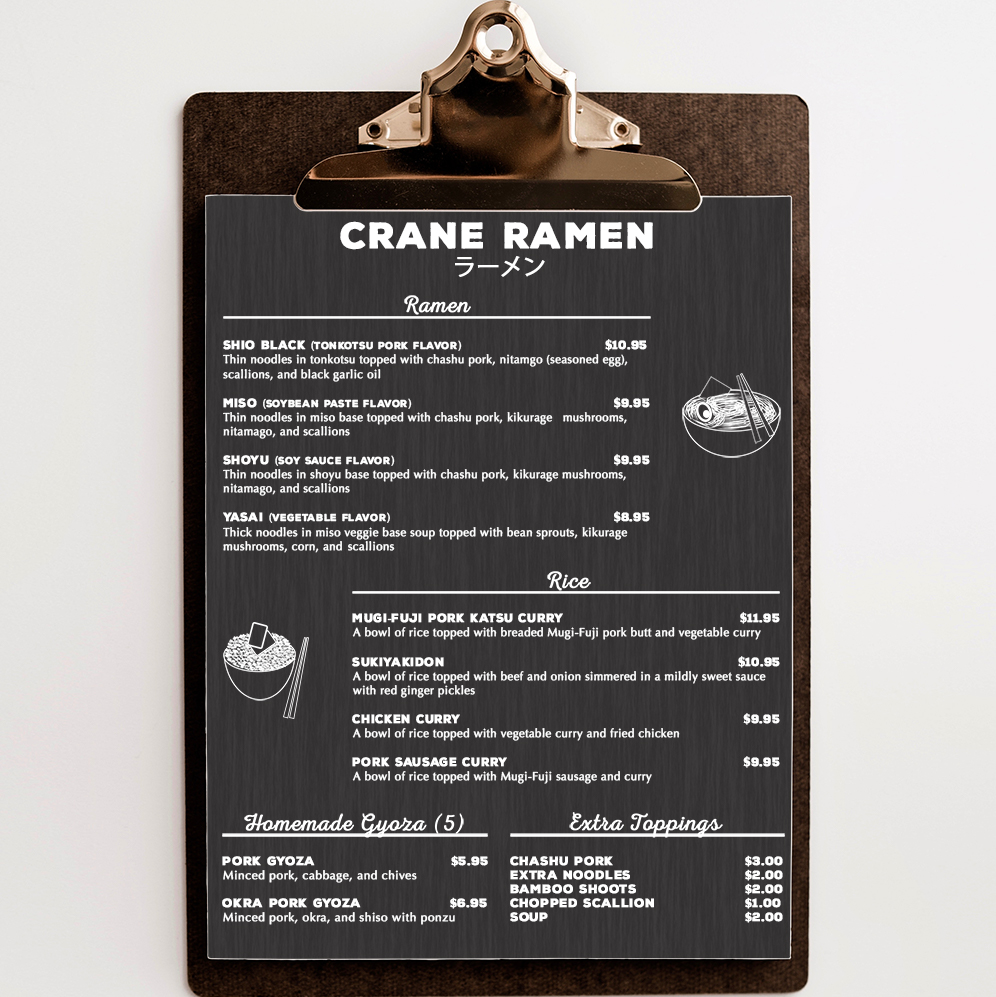
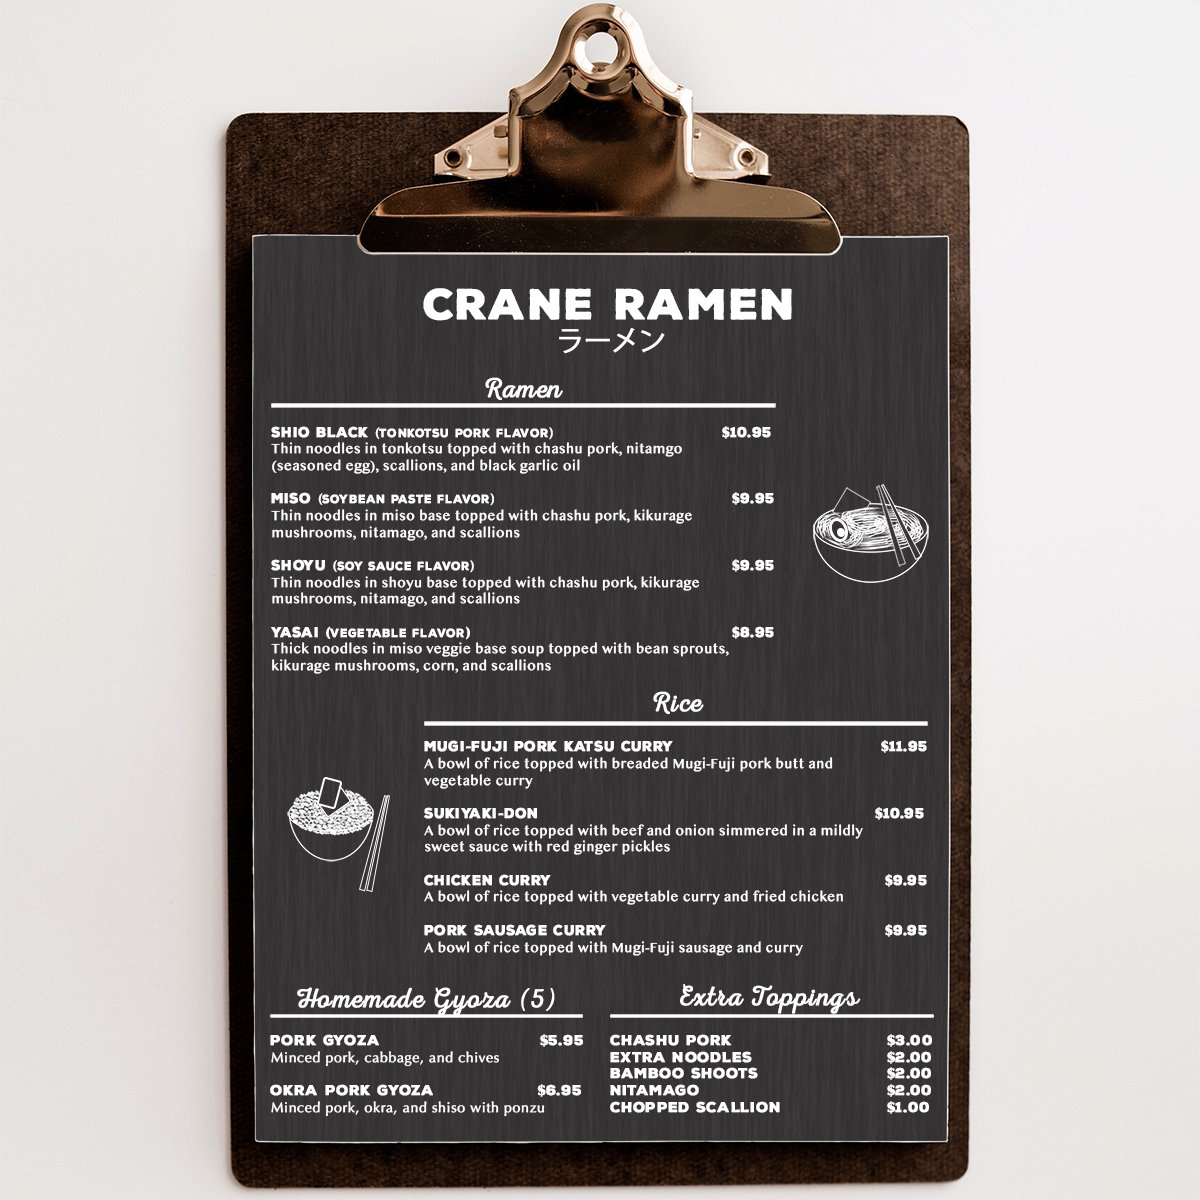
Complete menu page

Changed region(s): [[0.1556, 0.0, 0.8404, 1.0]]

diff --git a/projects/menu/index.html b/projects/menu/index.html
@@ -4,11 +4,11 @@
 	<head>
 	  <meta charset="utf-8">
 		<meta name="viewport" content="width=device-width, initial-scale=1, shrink-to-fit=no">
-	  <meta name="description" content=" ">
-	  <meta name="author" content="Amanda Cheng">
+	  	<meta name="description" content=" ">
+	  	<meta name="author" content="Amanda Cheng">
 		<title>Projects | Amanda Cheng</title>
 
-	  <link rel="stylesheet" href="https://stackpath.bootstrapcdn.com/bootstrap/4.3.1/css/bootstrap.min.css" integrity="sha384-ggOyR0iXCbMQv3Xipma34MD+dH/1fQ784/j6cY/iJTQUOhcWr7x9JvoRxT2MZw1T" crossorigin="anonymous">
+	  	<link rel="stylesheet" href="https://stackpath.bootstrapcdn.com/bootstrap/4.3.1/css/bootstrap.min.css" integrity="sha384-ggOyR0iXCbMQv3Xipma34MD+dH/1fQ784/j6cY/iJTQUOhcWr7x9JvoRxT2MZw1T" crossorigin="anonymous">
 		<link href="style.css" rel="stylesheet">
 	</head>
 
@@ -19,9 +19,9 @@
 					<div>Logo</div>
 					<p>Contact</p>
 				</header>
-				<div class="text-left py-5 px-4 px-xl-0">
-					<h1>Thanks for dropping by!</h1>
-					<h2>This site is currently under maintenance. Please check back later.</h2>
+				<div class="text-center py-5 px-4 px-xl-0">
+					<h1>Menu Design</h1>
+					<p class="px-5">This menu design was inspired by the restaurant's rustic style that includes dark wood and charcoal colored features. It embraces nature-inspired textures and maintains clarity with its simplistic, easy to read appearance.</p>
 				</div>
 			  <div>
 					<img src="../assets/menu-project/ramen-menu.jpg" />
@@ -35,10 +35,10 @@
 			</div>
 		</div>
 		<script>
-		var mybutton = document.getElementById("backToTopBtn");
-		function topFunction() {
-	  document.body.scrollTop = 0;
-	  document.documentElement.scrollTop = 0;
+			var mybutton = document.getElementById("backToTopBtn");
+			function topFunction() {
+				document.body.scrollTop = 0;
+				document.documentElement.scrollTop = 0;
 			}
 		</script>
 	 	<script src="https://code.jquery.com/jquery-3.3.1.slim.min.js" integrity="sha384-q8i/X+965DzO0rT7abK41JStQIAqVgRVzpbzo5smXKp4YfRvH+8abtTE1Pi6jizo" crossorigin="anonymous"></script>

diff --git a/index.html b/index.html
@@ -16,19 +16,23 @@
 	<body>
 		<div class="wrapper">
 			<div class="container">
+				<div class="text-center align-items-center justify-content-center pt-5">
+					<h1>Thanks for dropping by!</h1>
+					<h2>This site is currently under maintenance. Please check back later.</h2>
+				</div>
 				<!-- <header class="py-4 d-flex justify-content-between px-4 px-xl-0">
 					<div>Logo</div>
 					<p>Contact</p>
-				</header> -->
+				</header>
 				<div class="text-left py-5 px-4 px-xl-0">
 					<h1>Thanks for dropping by!</h1>
 					<h2>This site is currently under maintenance. Please check back later.</h2>
 				</div>
-				<!-- <div class="project-grid d-flex flex-wrap justify-content-center py-5">
+				<div class="project-grid d-flex flex-wrap justify-content-center py-5">
 					<a href="projects/menu/index.html">
 						<div class="grid-content" id="menu-thumbnail">
 							<div class="overlay">
-								<p class="overlay-text">Grid</p>
+								<h3 class="overlay-text">MENU DESIGN</h3>
 							</div>
 						</div>
 					</a>

diff --git a/projects/menu/style.css b/projects/menu/style.css
@@ -10,8 +10,21 @@ h1, h2, h3, h4, h5, h6, p {
 	color: #13505B;
 }
 
+p {
+	font-size: 1.2rem;
+}
+
+img {
+	max-width: 100%;
+}
+
 body {
   background: #F4F4F7;
+}
+
+.container {
+	max-width: 1200px;
+	padding: 0;
 }
 
 #backToTopBtn {
